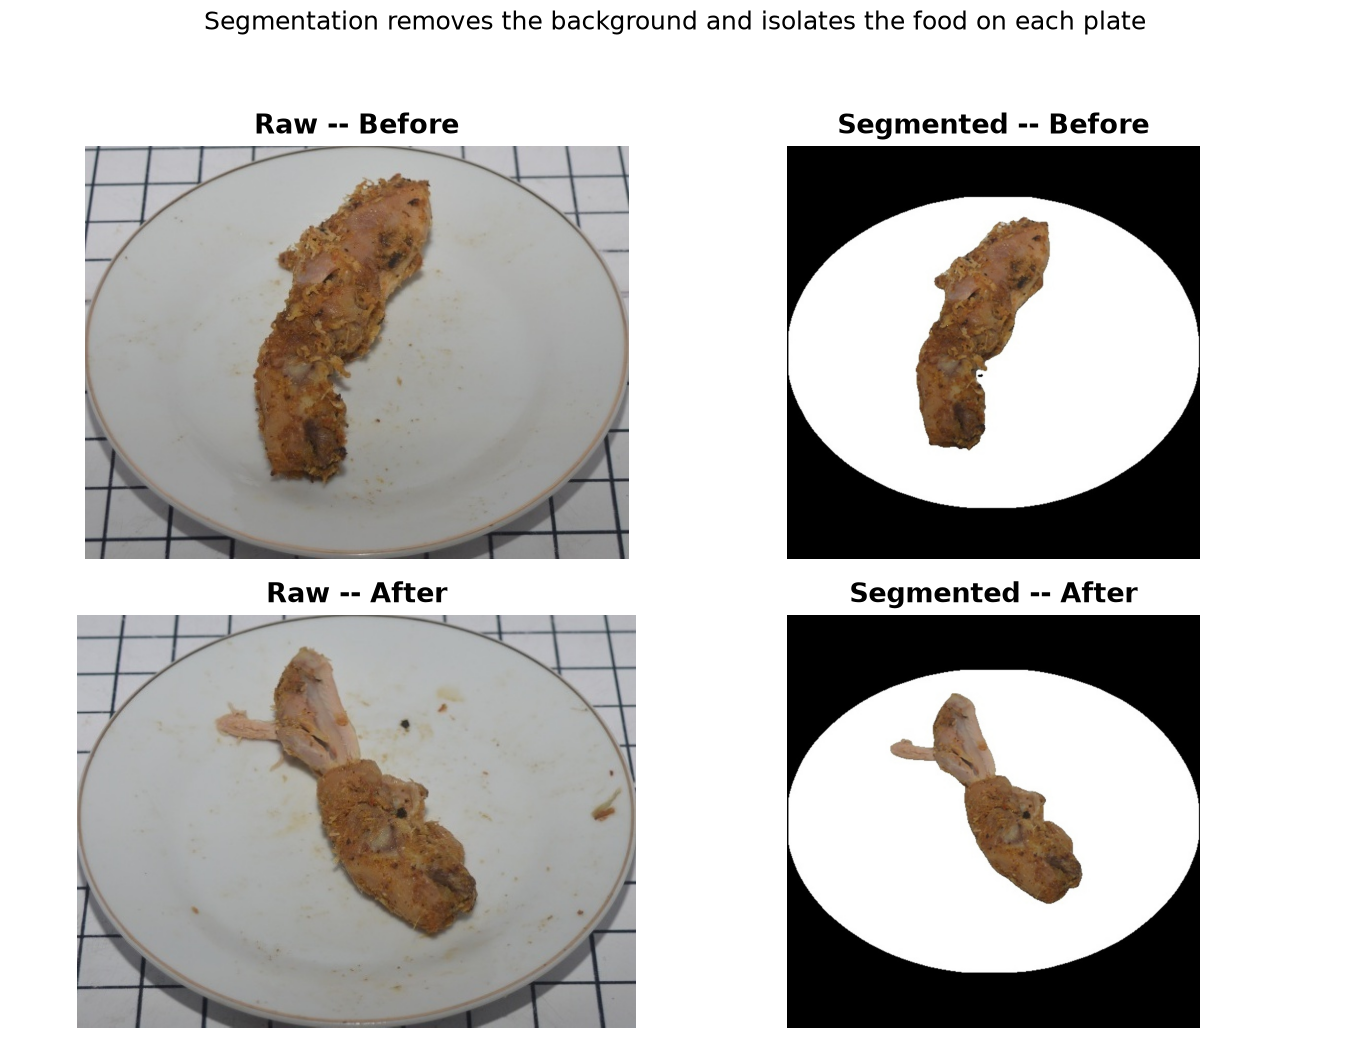
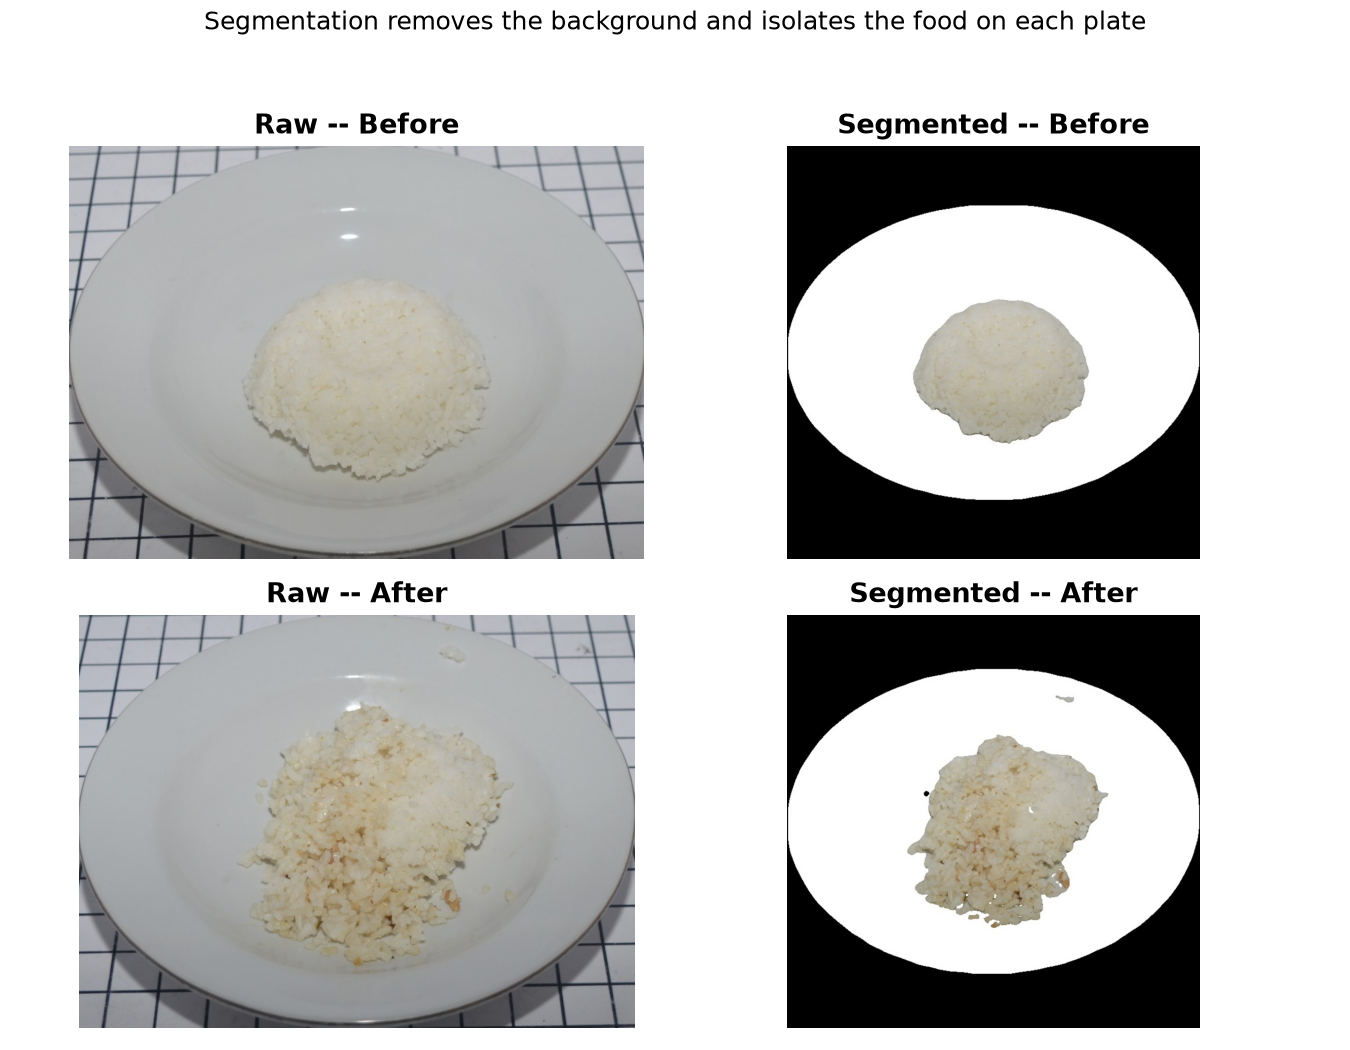
Update pipeline overview and sample images with new dataset samples

diff --git a/assets/readme/make_pipeline_overview.py b/assets/readme/make_pipeline_overview.py
@@ -11,10 +11,10 @@ from PIL import Image
 ROOT = Path(__file__).resolve().parents[2]
 OUT_PATH = Path(__file__).parent / "pipeline_overview.png"
 
-BEFORE_RAW = ROOT / "data/raw/data_before/010/010_185_DSC_0370_bef.JPG"
-AFTER_RAW = ROOT / "data/raw/data_after/010/010_185_DSC_0423_aft.JPG"
-BEFORE_SEG = ROOT / "data/segmented/data_before/010_010_185_DSC_0370_bef.JPG"
-AFTER_SEG = ROOT / "data/segmented/data_after/010_010_185_DSC_0423_aft.JPG"
+BEFORE_RAW = ROOT / "data/raw/data_before/001/001_031_DSC_0343_bef.JPG"
+AFTER_RAW = ROOT / "data/raw/data_after/001/001_031_DSC_0393_aft.JPG"
+BEFORE_SEG = ROOT / "data/segmented/data_before/001_001_031_DSC_0343_bef.JPG"
+AFTER_SEG = ROOT / "data/segmented/data_after/001_001_031_DSC_0393_aft.JPG"
 
 fig = plt.figure(figsize=(13, 4.2))
 gs = fig.add_gridspec(2, 6, width_ratios=[1.1, 0.55, 1.1, 0.7, 1.3, 1.0],
@@ -79,7 +79,7 @@ ax_out.add_patch(FancyArrowPatch((-0.15, 0.5), (0.1, 0.5),
 out_box = FancyBboxPatch((0.12, 0.2), 0.85, 0.6, boxstyle="round,pad=0.03,rounding_size=0.06",
                           linewidth=1.2, edgecolor="#1F1F1F", facecolor="#1F1F1F", alpha=0.92)
 ax_out.add_patch(out_box)
-ax_out.text(0.545, 0.56, "r = 0.42", ha="center", va="center",
+ax_out.text(0.545, 0.56, "r = 0.98", ha="center", va="center",
             fontsize=11, color="white", fontweight="bold")
 ax_out.text(0.545, 0.34, "consumption ratio", ha="center", va="center",
             fontsize=7.5, color="#DDDDDD")

diff --git a/assets/readme/make_sample_pipeline.py b/assets/readme/make_sample_pipeline.py
@@ -9,10 +9,10 @@ from PIL import Image
 ROOT = Path(__file__).resolve().parents[2]
 
 PAIRS = [
-    ("Raw -- Before", ROOT / "data/raw/data_before/010/010_185_DSC_0370_bef.JPG"),
-    ("Segmented -- Before", ROOT / "data/segmented/data_before/010_010_185_DSC_0370_bef.JPG"),
-    ("Raw -- After", ROOT / "data/raw/data_after/010/010_185_DSC_0423_aft.JPG"),
-    ("Segmented -- After", ROOT / "data/segmented/data_after/010_010_185_DSC_0423_aft.JPG"),
+    ("Raw -- Before", ROOT / "data/raw/data_before/001/001_031_DSC_0343_bef.JPG"),
+    ("Segmented -- Before", ROOT / "data/segmented/data_before/001_001_031_DSC_0343_bef.JPG"),
+    ("Raw -- After", ROOT / "data/raw/data_after/001/001_031_DSC_0393_aft.JPG"),
+    ("Segmented -- After", ROOT / "data/segmented/data_after/001_001_031_DSC_0393_aft.JPG"),
 ]
 
 fig, axes = plt.subplots(2, 2, figsize=(9, 7))